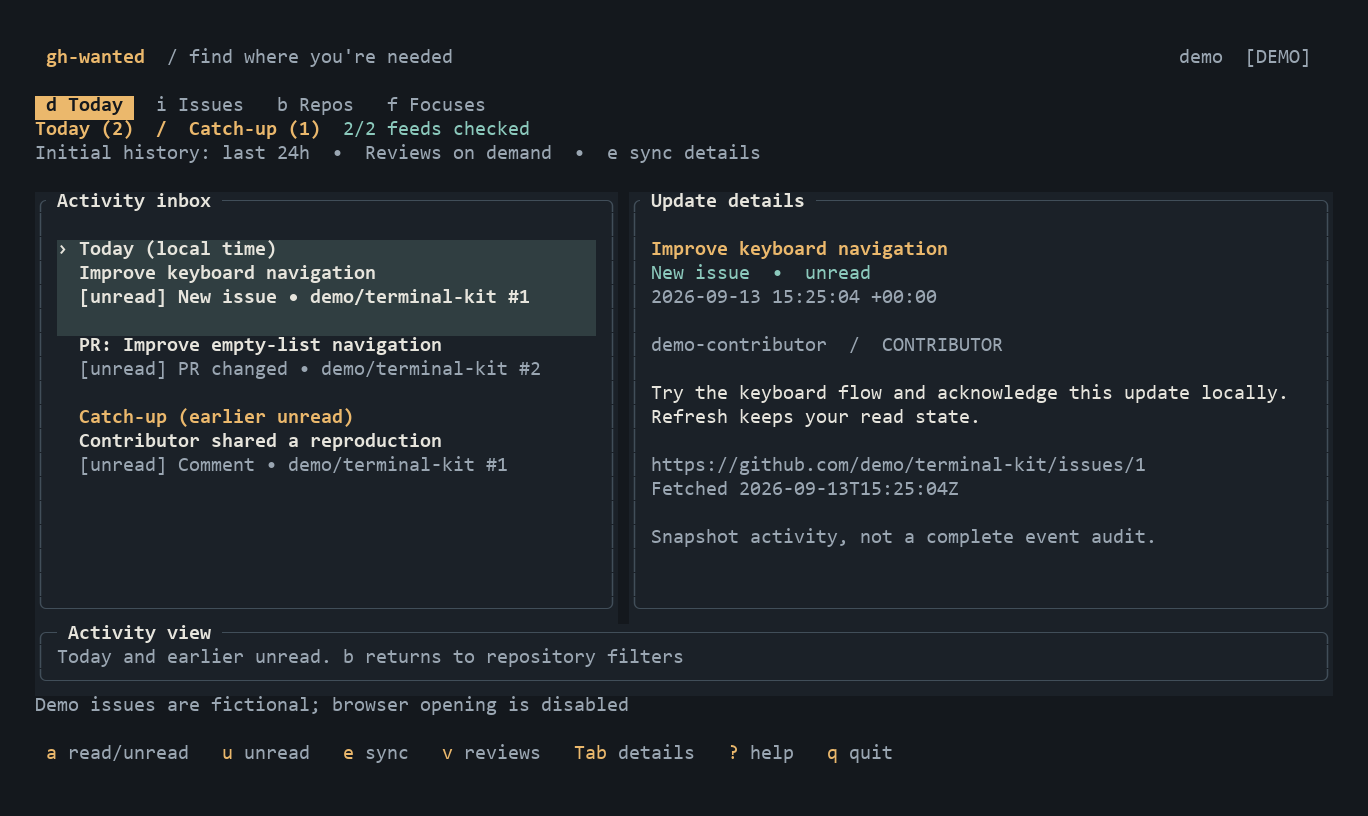
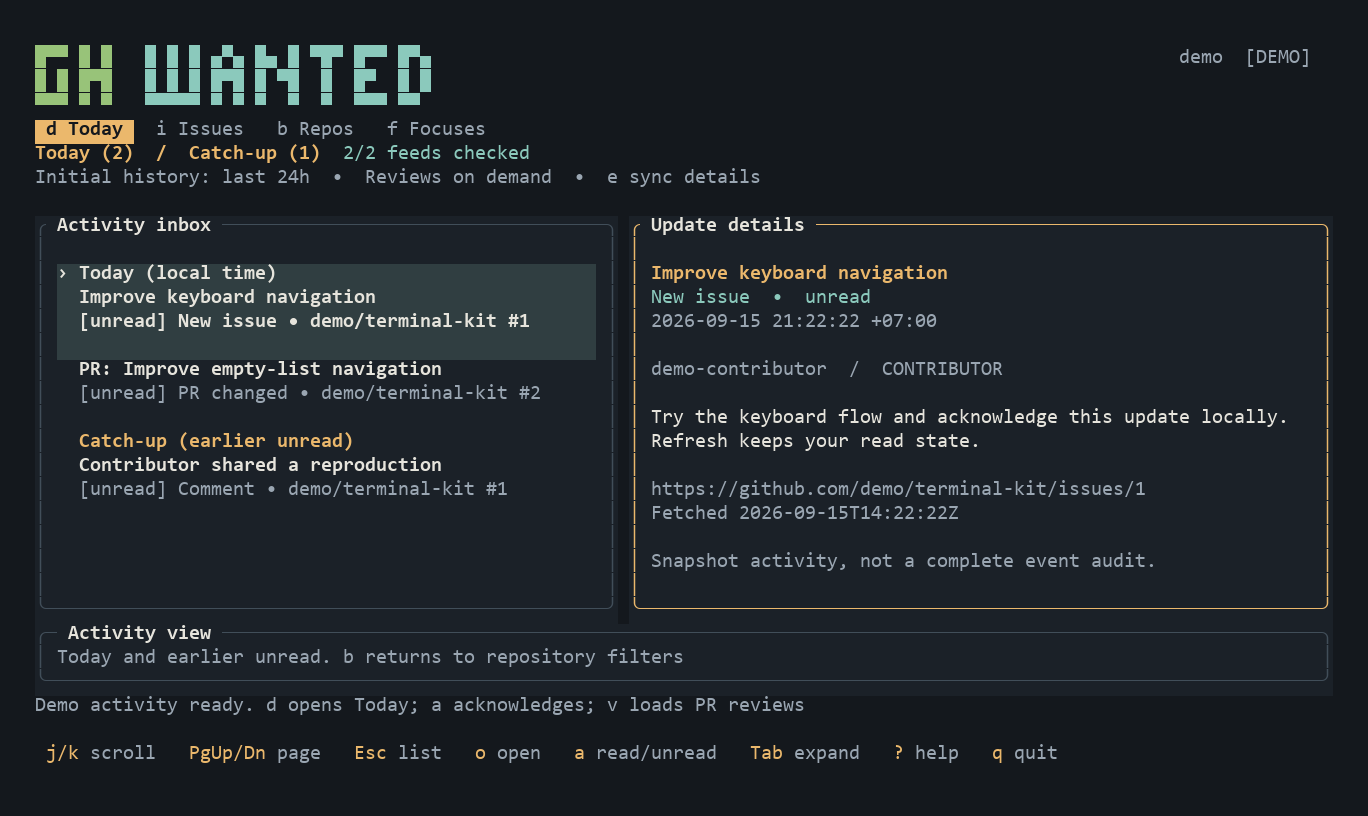
docs: simplify README and refresh demo image

diff --git a/README.md b/README.md
@@ -2,130 +2,60 @@
 
 **Find where you're needed.**
 
-A Rust terminal app for following GitHub repositories, catching up on activity, and finding issues to contribute to. Organize repositories with private local tags, narrow your search, and save the combinations you use most.
+A terminal app for catching up on watched GitHub repositories and finding issues to contribute to.
 
-![gh-wanted Today view showing recent activity, catch-up items, and update details](docs/images/demo.png)
+![gh-wanted demo: Today activity and focused details](docs/images/demo.png)
 
-*Demo data. Try it without a GitHub account with `cargo run -- --demo`.*
+## What it does
 
-## Features
+- **Today:** catch up on issues, comments, PR changes, and reviews. Keep track of what you've read.
+- **Issues:** find work by label, keyword, or assignee, updated in the last 7 or 30 days.
+- **Repos & Focuses:** organize repositories with private tags and save your favorite filters.
 
-- **Today and catch-up:** recent issues, comments, PR changes, and on-demand reviews. Earlier unread activity stays until you acknowledge it.
-- **Repository organization:** combine GitHub topics, private local tags, and text filters.
-- **Issue discovery:** search across matching repositories by label, state, assignee status, and keywords, with seven- or 30-day update windows.
-- **Readable details:** focused List/Details panes, wrapped descriptions, basic Markdown blocks, and keyboard scrolling.
-- **Saved focuses:** reopen named repository and issue filters.
-- **Efficient refresh:** incremental activity checkpoints, up to three concurrent feed workers, shared rate-limit pauses, and local timing metrics.
-
-GitHub operations are read-only. Tags, saved focuses, and read state stay on your machine.
+Refresh follows the active tab, pausing and resuming as you move. GitHub access is read-only; tags, saved filters, and read state stay on your machine.
 
 ## Get started
 
-Install Rust **1.88 or newer**, its platform build prerequisites, and the GitHub CLI (`gh`). Run these commands from the repository directory:
+Install Rust **1.88+** and the GitHub CLI (`gh`), then run from this repository:
 
 ```sh
-# Explore fictional data without authentication.
+# Try fictional data without an account
 cargo run --locked -- --demo
 
-# Use your GitHub account.
+# Connect to GitHub
 gh auth login --hostname github.com
 cargo run --locked
 ```
 
-To install the executable locally:
+To install locally: `cargo install --locked --path .`, then run `gh-wanted`.
+A terminal of **100 × 30** or larger is recommended.
 
-```sh
-cargo install --locked --path .
-gh-wanted
-```
-
-On macOS or Linux, the included Nix development shell supplies Rust tooling and GitHub CLI:
-
-```sh
-nix develop path:.
-cargo run --locked -- --demo
-```
-
-A terminal of **100 × 30** or larger is recommended. Compact layouts work from 42 × 14; your terminal controls the font.
-
-## Your daily workflow
-
-The app opens on **Today**. After account verification it displays cached activity and refreshes in the background. Today includes read and unread items from your local calendar day; catch-up contains earlier unread activity. Press `a` to acknowledge an item. Opening it or refreshing does not mark it read.
-
-Press Enter to focus an activity's Details pane. Scroll with `j/k`, arrows, or PgUp/PgDn; Esc returns to the list. Descriptions render basic Markdown blocks, and `o` opens the activity in your browser. On narrow terminals, focused details use the full width. Press `e` for separate feed-status details and Esc to return.
-
-Press `b` to organize repositories. Add local tags with `t`, then filter with `/`:
-
-```text
-topic:rust tag:priority
-tag:"needs review"
-```
-
-Topics and tags combine with AND. Other text searches repository names and descriptions. Tags are private, normalized to lowercase, and saved only when you press Enter.
-
-Press `i` to discover issues across the matching repositories:
-
-```text
-label:"good first issue" unassigned
-days:30 label:bug state:open
-days:7 state:all documentation
-```
-
-The default is **open issues updated in the last seven days**. Use `days:30` for a wider window. Multiple labels must all match; keywords search the title and body as a case-insensitive phrase. Pull requests are excluded from the Issues list.
-
-Press Enter to focus Details. Use `j/k` or PgUp/PgDn to scroll, and Esc to return to List. Details expands to full width on narrow terminals. Press `o` to open the issue in your browser.
-
-Press `s` to save your repository and issue filters as a named focus. Press `f`, select it, and press Enter to reopen it. Focus membership follows your current repositories and tags.
-
-## Keyboard controls
+## Controls
 
 | Key | Action |
 | --- | --- |
 | `d` / `i` / `b` / `f` | Today / Issues / Repos / Focuses |
-| `j/k` or arrows | Move through a list; scroll focused Issue/Today Details |
-| Enter | Focus Repo/Issue/Today Details, open a focus, or submit input |
-| Esc | Cancel input, leave focused Details, or clear the current filter |
-| Tab | Toggle expanded details |
-| PgUp / PgDn | Scroll details or feed status |
-| `/` | Edit the repository or issue filter |
-| `t` | Edit local repository tags |
-| `s` | Save a focus from Repos or Issues |
-| `o` | Open the selected repository, issue, or activity in a browser |
-| `a` | Toggle acknowledgment in Today |
-| `u` | Toggle unread-only activity |
-| `e` | Show activity checkpoints and errors |
-| `v` | Fetch reviews for selected PR activity |
-| `r` | Refresh the current view |
-| `?` | Show help |
-| `q` or Ctrl-C | Quit |
+| `j/k` or arrows | Move through lists or scroll focused details |
+| Enter / Esc | Focus details / return to list |
+| PgUp / PgDn | Scroll details by page |
+| Tab / `o` | Expand details / open in browser |
+| `/` / `t` / `s` | Filter / edit local tags / save focus |
+| `a` / `u` | Mark activity read or unread / show unread only |
+| `r` / `e` | Refresh / show Today sync details |
+| `?` / `q` | All shortcuts / quit |
 
-Browser opening is disabled in demo mode.
+Example filters:
 
-## Refresh and data
+```text
+# Repos
+topic:rust tag:priority
 
-Activity refreshes when due (every 15 minutes) while Today is visible. The initial activity window is 24 hours; later refreshes resume from saved checkpoints with overlap and deduplication. A failed feed preserves its checkpoint and cached data.
-
-**Repos → `r` reloads the watched-repository list.** Today refreshes activity for repositories already loaded. Newly watched repositories need a Repo refresh first. GitHub custom notification subscriptions may be absent from the watched-list API; the app currently imports only repositories returned by that API. Releases are not currently tracked.
-
-Issue windows use **last updated time**, so an old issue with recent activity can appear. Quiet older issues are outside the window. Changing the window replaces the old issue refresh; cached results remain available.
-
-Refresh follows the active tab. Switching between Today and Issues pauses the previous view before its next CLI request; in-flight requests finish, and returning resumes pagination in memory. Repos and Focuses pause both feeds. Repository discovery always runs because every view needs it, and a manual repository refresh cancels older feed refreshes. At most three CLI requests run across all views, with shared auth/rate-limit handling. Known-active repositories are prioritized within each view; moving between individual rows does not yet reorder requests.
-
-Each refresh binds one credential and verifies its account; switching the CLI account affects the next refresh. Credentials are held in memory for requests and are not written to the app's database or logs. Paused pagination is retained only while the app stays open; activity checkpoints still persist across restarts.
-
-Cached repositories, tags, focuses, activity, and acknowledgments are stored in `state.sqlite3` under the platform's local application-data directory. Data is isolated by GitHub account. Issues are held in memory. Demo mode uses temporary in-memory data.
-
-Each CLI call has a 30-second timeout and a 16 MiB output limit. Very busy windows can still exceed these limits; incomplete results remain labeled and cached data is retained. Rate-limit deadlines apply to manual retries too. Polling is not a complete event audit, and nothing runs after the app closes.
-
-To inspect local refresh measurements:
-
-```sh
-gh-wanted --refresh-metrics
-# From source:
-cargo run --locked -- --refresh-metrics
+# Issues
+label:"good first issue" unassigned
+days:30 label:bug state:open
 ```
 
-This prints the log location and summaries without contacting GitHub. Logs rotate at roughly 10 MiB total and contain no response bodies or credentials. See [refresh monitoring](docs/refresh-monitoring.md) for fields and interpretation.
+Newly watched repository missing? Press `b`, then `r`. GitHub custom notification subscriptions may be absent from its watched-list API. Releases aren't tracked yet. Browser opening is disabled in demo mode.
 
 ## Development
 
@@ -135,28 +65,6 @@ cargo clippy --locked --all-targets -- -D warnings
 cargo test --locked
 ```
 
-Tests use synthetic GitHub responses, temporary databases, and terminal test backends. They do not require GitHub authentication. On Linux, build the app and run `python3 tests/pty_smoke.py` for the demo keyboard walkthrough.
+CI checks Linux, Windows, and macOS. To publish, bump the version in `Cargo.toml` and `Cargo.lock`, then push to `release`; the workflow tests, builds, and publishes `v<version>` with binary archives and checksums. Existing tags are never replaced.
 
-Docker build targets are also available:
-
-```sh
-docker build --target test -t gh-wanted-test .
-docker build --target build -t gh-wanted-build .
-docker build --target artifact --output type=local,dest=dist .
-```
-
-The artifact target exports a Linux executable for Docker's architecture. Build on your host for a native executable.
-
-## CI and releases
-
-GitHub Actions runs formatting, Clippy, and tests on Linux, Windows, and macOS for pushes to `main` or `master` and pull requests targeting either branch or `release`. Linux also runs the offline terminal walkthrough. CI uses Rust 1.94, matching the Docker build.
-
-To publish a release:
-
-1. Set a new package version in `Cargo.toml` and update `Cargo.lock` with `cargo check`.
-2. Commit those files with your changes and merge them into the `release` branch.
-3. Pushing `release` runs the same CI checks, builds the binaries, and publishes a GitHub Release tagged `v<package-version>` at that commit.
-
-Each release includes Linux x86_64 (GNU, built on Ubuntu 22.04), Windows x86_64, and macOS Apple Silicon archives, plus `SHA256SUMS`. GitHub CLI must still be installed separately. Versions such as `0.2.0-rc.1` are marked as prereleases. An existing version tag causes the workflow to stop without replacing published assets; bump the version before the next release.
-
-The workflow uses the built-in `GITHUB_TOKEN`; no personal access token is needed. Only the publishing job requests write access. You can also run it manually from Actions with the `release` branch selected. Repository rules must allow that job to create release tags.
+For refresh diagnostics, run `gh-wanted --refresh-metrics`. See [refresh monitoring](docs/refresh-monitoring.md).
